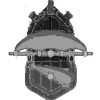
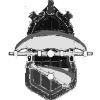
poc

diff --git a/src/main.ts b/src/main.ts
@@ -1,5 +1,12 @@
 import { getWebGpuContext } from './lib/utils';
 
+/**
+ * TODOs:
+ * - better raymarcher: prevent self intersection, move full pixels
+ * - caustic: water shader, draw from ground texture
+ * - blur shadows
+ * - gameplay
+ */
 
 /*****************************************************************************
  * Globals
@@ -783,7 +790,7 @@ function render() {
   device.queue.writeBuffer(shipPosBuffer, 0, shipPosArray, 0);
   lightSourcesArray[0] = 0.5 * widthM + Math.cos(i / 100) * widthM / 8;
   lightSourcesArray[1] = 0.5 * heightM + Math.sin(i / 100) * heightM / 8;
-  lightSourcesArray[4] = 0.5 * heightM + Math.sin(i / 100) * heightM / 8;
+  lightSourcesArray[4] = 0.5 * heightM + Math.sin(0.5 + i / 80) * heightM / 8;
   device.queue.writeBuffer(lightSourcesBuffer, 0, lightSourcesArray, 0);
 
   // water rendering

diff --git a/other/raymarcher.py b/other/raymarcher.py
@@ -1,0 +1,107 @@
+#%% globals
+import numpy as np
+import matplotlib.pyplot as plt
+
+
+nrRayMarcherSteps = 50
+width = height = 100
+lightSources = [{
+    "x": 10,
+    "y": 10,
+    "h": 1.5
+}, {
+    "x": 90,
+    "y": 20,
+    "h": 0.5
+}]
+
+
+field = np.zeros((width, height))
+field[40:60, 40:60] = 1.0
+color = np.zeros((width, height))
+
+#%% original implementation
+
+"""
+    var lightness = 1.0;
+    let startPoint = vec3f(vo.uv, height + 0.01);
+    for (var l: u32 = 0; l < metaDataInts.lightSourcesCount; l++) {
+        let lightSource = lightSources[l];
+        let lightSourcePoint = vec3f(lightSource.xM / metaDataFloats.widthM, lightSource.yM / metaDataFloats.heightM, lightSource.h);
+        let direction = lightSourcePoint - startPoint;
+        for (var s: u32 = 0; s < metaDataInts.rayMarcherSteps; s++) {
+            let wayPoint = startPoint + (f32(s) / f32(metaDataInts.rayMarcherSteps)) * direction;
+            let terrainHeight = getTerrainHeight(wayPoint.xy);
+            if (terrainHeight > wayPoint.z) {
+                lightness -= (1.0 / f32(metaDataInts.lightSourcesCount));
+                break;
+            }
+        }
+    }
+    lightness = max(lightness, 0.2);
+"""
+
+def getTerrainHeight(pos):
+    r = np.int(pos[0])
+    c = np.int(pos[1])
+    return field[r, c]
+
+operations = 0
+for x in range(100):
+    for y in range(100):
+        lightness = 1.0
+        startPoint = np.array([x, y, field[x, y]])
+        for lightSource in lightSources:
+            lightSourcePoint = np.array([lightSource['x'], lightSource['y'], lightSource['h']])
+            direction = lightSourcePoint - startPoint
+            for step in range(nrRayMarcherSteps):
+                operations += 1
+                wayPoint = startPoint + step / nrRayMarcherSteps * direction
+                terrainHeight = getTerrainHeight(wayPoint)
+                if terrainHeight > wayPoint[2]:
+                    lightness -= 1.0 / len(lightSources)
+                    break
+        color[x, y] = lightness
+
+
+plt.imshow(color) 
+print(operations)
+
+#%%  slight optimization
+field = np.zeros((width, height))
+field[40:60, 40:60] = 1.0
+color = np.zeros((width, height))
+
+
+def length(arr):
+    return np.sum(arr * arr)
+
+operations = 0
+for x in range(100):
+    for y in range(100):
+        lightness = 1.0
+        startPoint = np.array([x, y, field[x, y]])
+        for lightSource in lightSources:
+            lightSourcePoint = np.array([lightSource['x'], lightSource['y'], lightSource['h']])
+            direction = lightSourcePoint - startPoint
+            wayPoint = startPoint
+            delta = 1.0 / nrRayMarcherSteps * direction
+            if np.max(np.abs(delta)) < 1.0:
+                delta = delta / np.max(np.abs(delta))
+            for step in range(nrRayMarcherSteps):
+                operations += 1
+                wayPoint = wayPoint + delta
+                if 0 > wayPoint[0] or 100 <= wayPoint[0] or 0 > wayPoint[1] or 100 <= wayPoint[1]:
+                    break
+                terrainHeight = getTerrainHeight(wayPoint)
+                if terrainHeight > wayPoint[2]:
+                    lightness -= 1.0 / len(lightSources)
+                    break
+        color[x, y] = lightness
+
+
+plt.imshow(color)      
+print(operations)
+
+
+#%%
